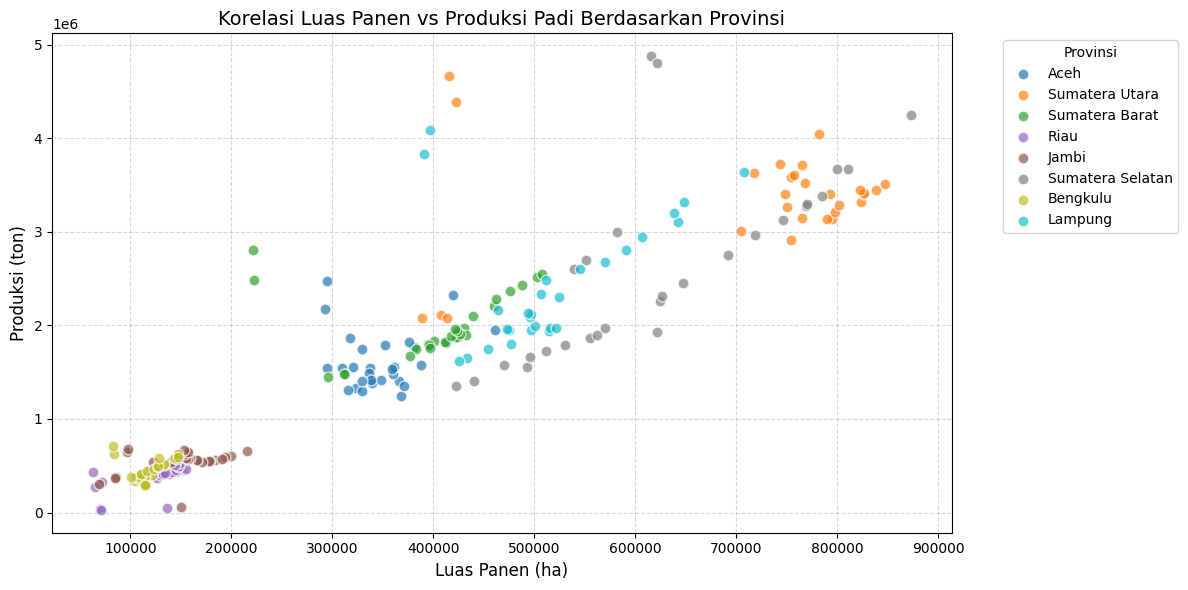
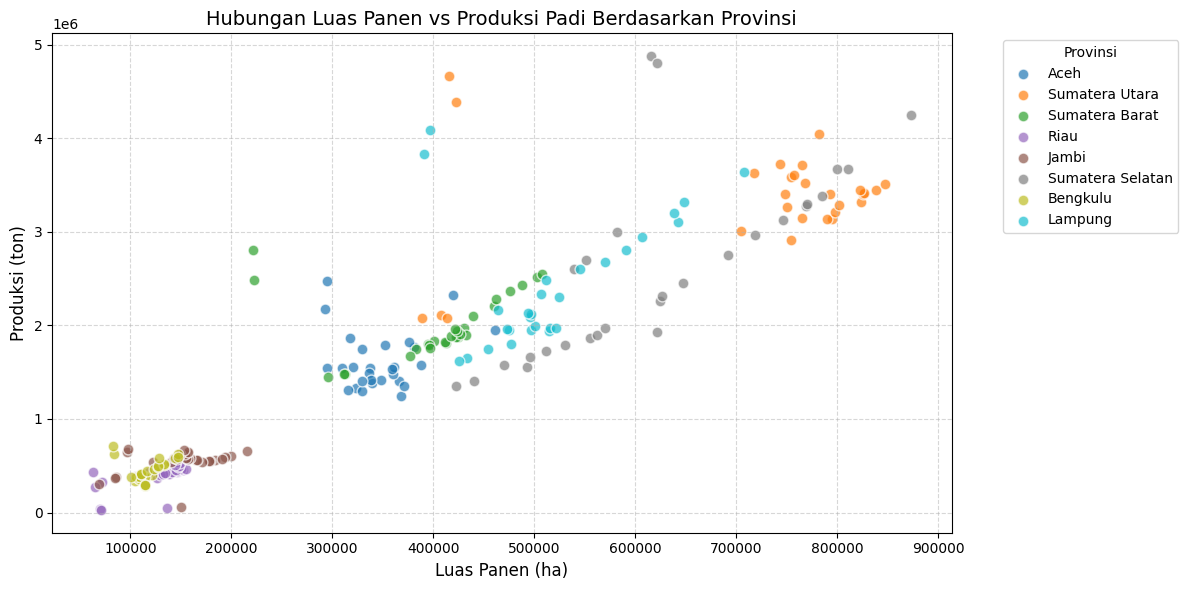
tambah pie dan box plot

Changed region(s): [[0.1557, 0.0, 0.6852, 0.061]]

diff --git a/templates/dashboard.html b/templates/dashboard.html
@@ -99,6 +99,15 @@
             </div>
         </div>
 
+        <div class="row">
+            <div class="col-md-12">
+                <div class="chart-card">
+                    <h4>📊 Distribusi & Variasi Kelembapan Udara</h4>
+                    <img src="{{ img_distribusi_kelembapan }}" alt="Distribusi Kelembapan" class="img-fluid">
+                </div>
+            </div>
+        </div>
+
         <!-- Grafik 2: Rata-rata Produksi per Provinsi -->
         <div class="row">
             <div class="col-md-12">
@@ -118,8 +127,8 @@
         <div class="row">
             <div class="col-md-6">
                 <div class="chart-card">
-                    <h4>🔵 Korelasi: Luas Panen vs Produksi</h4>
-                    <img src="{{ img_scatter }}" alt="Korelasi Luas Produksi">
+                    <h4>🔵 Hubungan Luas Panen vs Produksi</h4>
+                    <img src="{{ img_scatter }}" alt="Hubungan Luas Panen vs Produksi">
                 </div>
             </div>
             <div class="col-md-6">
@@ -145,6 +154,21 @@
                 <div class="chart-card">
                     <h4>📊 Perbandingan Total Produksi dan Rata-rata Curah Hujan per Provinsi</h4>
                     <img src="{{ img_perbandingan }}" alt="Perbandingan Produksi dan Curah Hujan">
+                </div>
+            </div>
+        </div>
+
+        <div class="row">
+            <div class="col-md-6">
+                <div class="chart-card">
+                    <h4>🥧 Proporsi Produksi Tahun 1993</h4>
+                    <img src="{{ img_pie_1993 }}" alt="Proporsi Produksi 1993">
+                </div>
+            </div>
+            <div class="col-md-6">
+                <div class="chart-card">
+                    <h4>🥧 Proporsi Produksi Tahun 2020</h4>
+                    <img src="{{ img_pie_2020 }}" alt="Proporsi Produksi 2020">
                 </div>
             </div>
         </div>

diff --git a/app.py b/app.py
@@ -8,6 +8,7 @@ import io
 import base64
 from datetime import datetime
 import os
+import seaborn as sns
 
 app = Flask(__name__)
 
@@ -76,6 +77,17 @@ def plot_tren_produksi():
     plt.tight_layout()
     return save_plot_as_png('tren_produksi.png')
 
+def plot_distribusi_kelembapan():
+    plt.figure(figsize=(12, 6))
+    data_clean = data.dropna(subset=['Kelembapan'])
+    
+    sns.boxplot(x='Provinsi', y='Kelembapan', data=data_clean, palette='GnBu')
+    plt.xticks(rotation=45, ha='right')
+    plt.title('Variasi dan Distribusi Kelembapan per Provinsi')
+    plt.ylabel('Kelembapan (%)')
+    
+    return save_plot_as_png('distribusi_kelembapan.png')
+
 def plot_rata_produksi():
     rata_produksi = data.groupby('Provinsi')['Produksi'].mean().sort_values(ascending=False)
     plt.figure(figsize=(12, 6))
@@ -106,7 +118,7 @@ def plot_korelasi_luas_produksi():
             s=60            
         )
 
-    plt.title('Korelasi Luas Panen vs Produksi Padi Berdasarkan Provinsi', fontsize=14)
+    plt.title('Hubungan Luas Panen vs Produksi Padi Berdasarkan Provinsi', fontsize=14)
     plt.xlabel('Luas Panen (ha)', fontsize=12)
     plt.ylabel('Produksi (ton)', fontsize=12)
     plt.legend(title="Provinsi", bbox_to_anchor=(1.05, 1), loc='upper left')
@@ -176,6 +188,37 @@ def plot_perbandingan_produksi_curah():
     
     return save_plot_as_png('perbandingan_produksi_curah.png')
 
+def plot_proporsi_per_tahun(tahun):
+    data_tahun = data[data['Tahun'] == tahun].copy()
+
+    if data_tahun.empty:
+        return None 
+    
+    idx_maks = data_tahun['Produksi'].argmax()
+    explode_list = [0] * len(data_tahun)
+    explode_list[idx_maks] = 0.1
+    
+    fig = plt.figure(figsize=(8, 8), dpi=100)
+    ax = fig.add_axes([0.1, 0.1, 0.8, 0.8])
+    
+    ax.pie(
+        data_tahun['Produksi'], 
+        labels=data_tahun['Provinsi'], 
+        autopct='%1.1f%%', 
+        startangle=140, 
+        explode=explode_list,
+        colors=plt.cm.Paired(np.linspace(0, 1, len(data_tahun)))
+    )
+    
+    ax.set_title(f'Proporsi Produksi Padi Sumatera ({tahun})', pad=20, fontsize=14)
+    
+    filename = f'proporsi_{tahun}.png'
+    filepath = os.path.join(IMAGE_FOLDER, filename)
+    plt.savefig(filepath) 
+    plt.close()
+    
+    return url_for('static', filename=f'images/{filename}')
+
 # ==============================================
 # 4. ROUTE UTAMA DASHBOARD
 # ==============================================
@@ -189,6 +232,9 @@ def dashboard():
         img_scatter_curah = plot_scatter_curah()
         img_hist = plot_histogram_produksi()
         img_perbandingan = plot_perbandingan_produksi_curah()
+        img_pie_1993 = plot_proporsi_per_tahun(1993)
+        img_pie_2020 = plot_proporsi_per_tahun(2020)
+        img_distribusi_kelembapan = plot_distribusi_kelembapan()
         
     except Exception as e:
         return f"Terjadi error saat membuat grafik: {str(e)}", 500
@@ -215,7 +261,11 @@ def dashboard():
         stats_suhu=stats_suhu,
         tahun_min=int(data['Tahun'].min()),
         tahun_max=int(data['Tahun'].max()),
-        provinsi_count=data['Provinsi'].nunique()
+        provinsi_count=data['Provinsi'].nunique(),
+        img_pie_1993=img_pie_1993,
+        img_pie_2020=img_pie_2020,
+        img_distribusi_kelembapan=img_distribusi_kelembapan
+        
     )
 
 if __name__ == '__main__':
